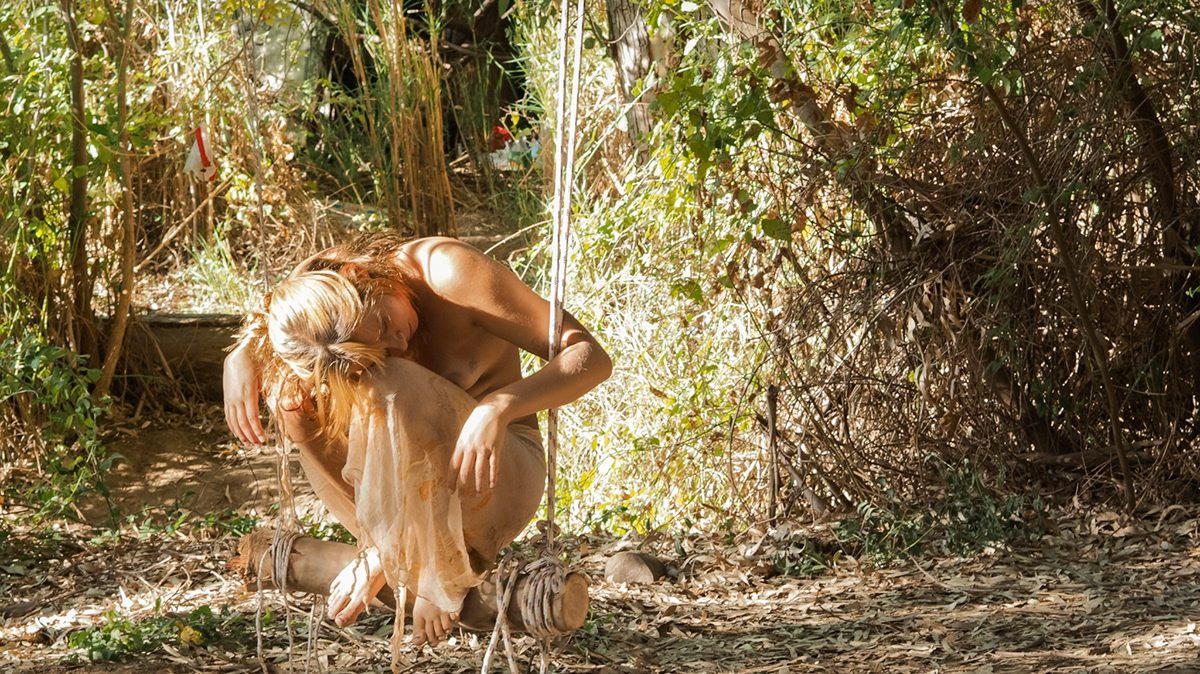
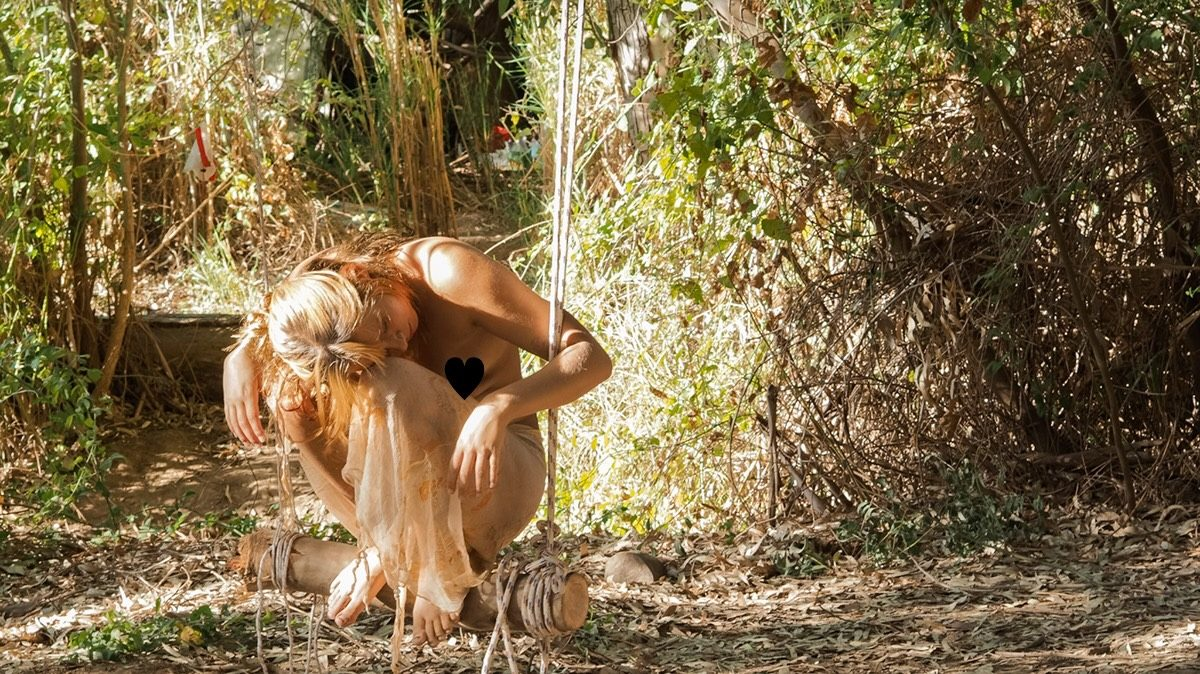
Add 4 new All This Crazy Gift Of Time photos; replace When in Heaven 2
Wire the 4 newly uploaded photos (camera-roll filenames R1-08244-0008/
0023/0027, R2-08251-0022) into the All This Crazy Gift Of Time series
as photos 5-8, compressed and renamed to match the series' existing
convention. Checked with perceptual hashing against the existing 4 and
each other - no duplicates.

Replace When In Heaven 2.jpg with the re-uploaded version in place
(same filename/path, no data.js change needed) - same shot, same crop,
just the newer edit the artist re-uploaded.

Claude-Session: https://claude.ai/code/session_01CjU4R2n3CfiHf3BsQerg1k

Changed region(s): [[0.37, 0.5297, 0.4008, 0.592]]

diff --git a/js/main.js b/js/main.js
@@ -327,6 +327,10 @@ const CATEGORIES = [
           "PHOTOS/PHOTOGRAPHY/ALL THIS CRAZY GIFT OF TIME/All This Crazy Gift Of Time 2.jpg",
           "PHOTOS/PHOTOGRAPHY/ALL THIS CRAZY GIFT OF TIME/All This Crazy Gift Of Time 3.jpg",
           "PHOTOS/PHOTOGRAPHY/ALL THIS CRAZY GIFT OF TIME/All This Crazy Gift Of Time 4.jpg",
+          "PHOTOS/PHOTOGRAPHY/ALL THIS CRAZY GIFT OF TIME/All This Crazy Gift Of Time 5.jpg",
+          "PHOTOS/PHOTOGRAPHY/ALL THIS CRAZY GIFT OF TIME/All This Crazy Gift Of Time 6.jpg",
+          "PHOTOS/PHOTOGRAPHY/ALL THIS CRAZY GIFT OF TIME/All This Crazy Gift Of Time 7.jpg",
+          "PHOTOS/PHOTOGRAPHY/ALL THIS CRAZY GIFT OF TIME/All This Crazy Gift Of Time 8.jpg",
         ],
       },
     ],
